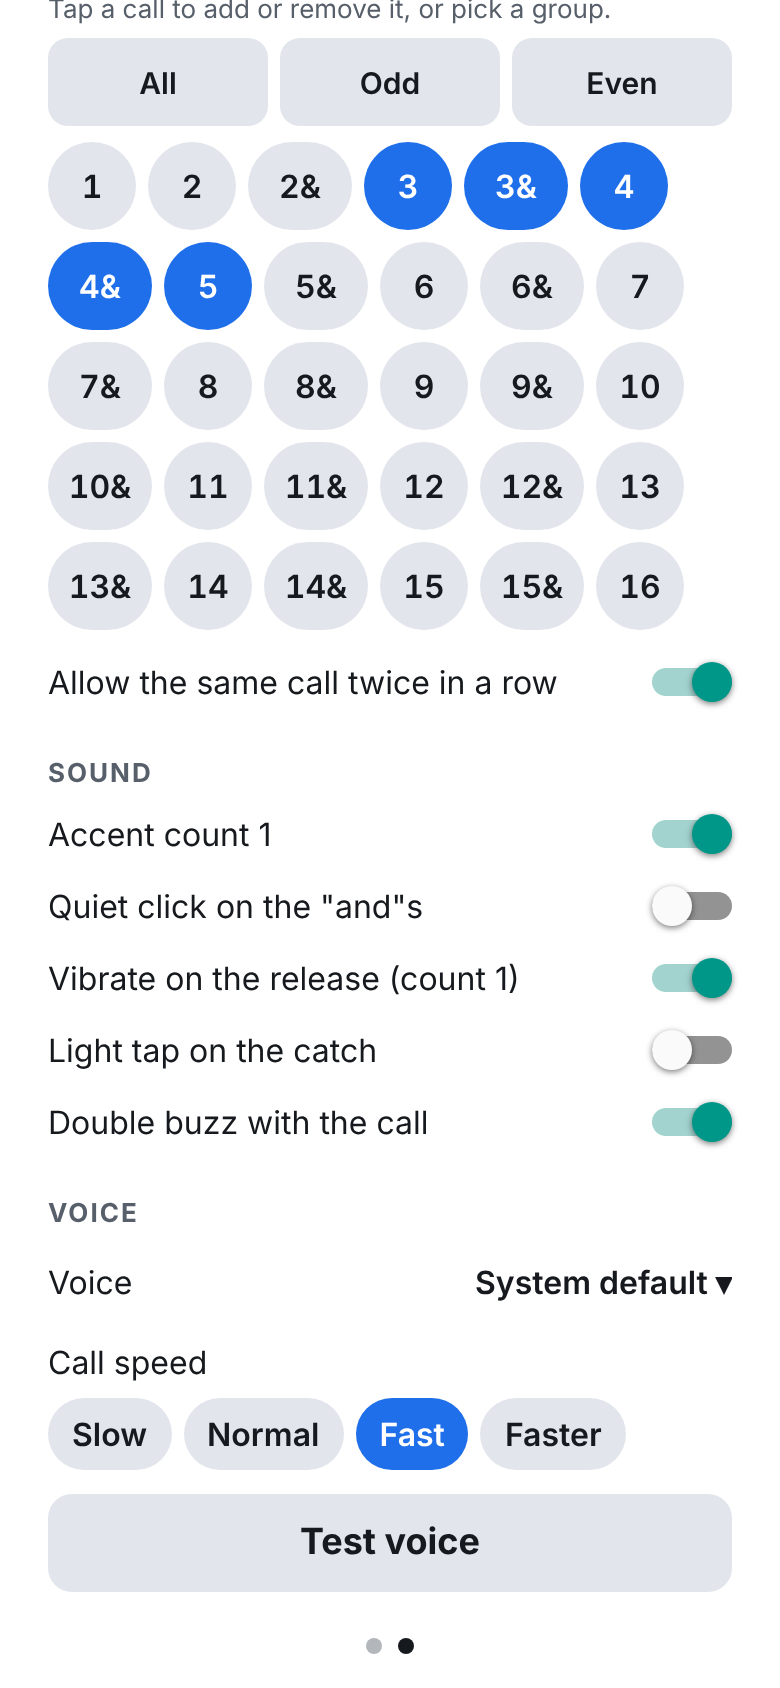
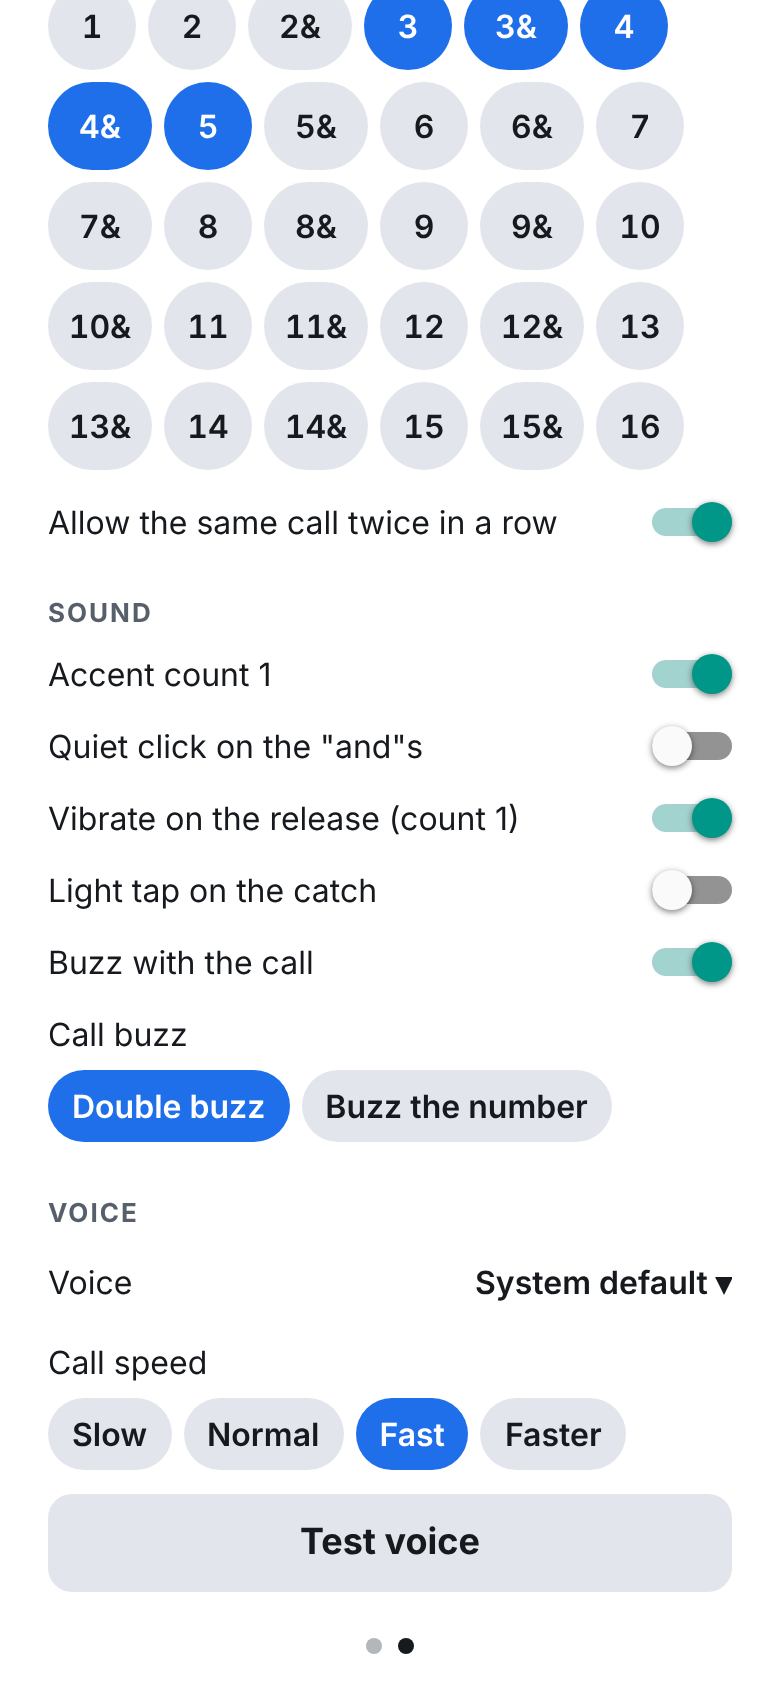
feat(ui): choose Double buzz or Buzz the number for the call buzz
Settings → Sound: "Buzz with the call" now shows two chips when on, with a
note that explains the taps or names the calls that fall back to the double
buzz at this tempo and lead (callBuzzNote). Smoke test checks the style is
saved and the chips hide with the switch; new screenshot 25-buzz-the-number.

Claude-Session: https://claude.ai/code/session_01UV53BDj7yNX1BCkrTVFhEo

Changed region(s): [[0.0615, 0.0, 0.9538, 0.6777], [0.6462, 0.5545, 0.6769, 0.5853]]

diff --git a/src/engine/__tests__/callBuzz.test.ts b/src/engine/__tests__/callBuzz.test.ts
@@ -1,4 +1,6 @@
 import {
+  DEFAULT_TOSS_SETTINGS,
+  callBuzzNote,
   MAX_COUNT_PULSES,
   PULSE_GAP_MAX_MS,
   PULSE_GAP_MIN_MS,
@@ -78,5 +80,58 @@ describe('call buzz style', () => {
     expect(isCallBuzzStyle('numbers')).toBe(false);
     expect(callBuzzStyleLabel('double')).toBe('Double buzz');
     expect(callBuzzStyleLabel('count')).toBe('Buzz the number');
+  });
+});
+
+describe('callBuzzNote', () => {
+  const quads = { ...DEFAULT_TOSS_SETTINGS, leadCounts: 4, allowedTossCounts: [3, 3.5, 4, 4.5, 5] };
+
+  it('says nothing for the double buzz', () => {
+    expect(callBuzzNote('double', quads, 155)).toBeNull();
+  });
+
+  it('explains the taps when every call fits', () => {
+    expect(callBuzzNote('count', quads, 155)).toBe(
+      'A 5 is five taps; an "and" call adds a lighter tap after a pause.',
+    );
+    expect(callBuzzNote('count', { ...quads, allowedTossCounts: [3, 4, 5] }, 155)).toBe(
+      'A 5 is five taps.',
+    );
+  });
+
+  it('names the calls that fall back to the double buzz', () => {
+    const tight = { ...DEFAULT_TOSS_SETTINGS, leadCounts: 1, allowedTossCounts: [1, 2, 3, 5] };
+    expect(callBuzzNote('count', tight, 155)).toBe(
+      "Calls 3 and 5 don't fit as taps before the release at 155 BPM, so they get the double buzz.",
+    );
+    expect(callBuzzNote('count', { ...tight, allowedTossCounts: [2, 3] }, 155)).toBe(
+      "Call 3 doesn't fit as taps before the release at 155 BPM, so it gets the double buzz.",
+    );
+  });
+
+  it('sums up calls too long to tap out at any tempo', () => {
+    const full = { ...DEFAULT_TOSS_SETTINGS, leadCounts: 4, allowedTossCounts: [3, 5, 9, 12] };
+    expect(callBuzzNote('count', full, 120)).toBe(
+      'A 5 is five taps. Calls over 8 counts get the double buzz (too many taps to count).',
+    );
+    const tight = { ...full, leadCounts: 1, allowedTossCounts: [2, 3, 9] };
+    expect(callBuzzNote('count', tight, 155)).toBe(
+      "Call 3 doesn't fit as taps before the release at 155 BPM, so it gets the double buzz. Calls over 8 counts get the double buzz (too many taps to count).",
+    );
+  });
+
+  it('says so when no call fits', () => {
+    const tight = { ...DEFAULT_TOSS_SETTINGS, leadCounts: 1, allowedTossCounts: [4, 5] };
+    expect(callBuzzNote('count', tight, 155)).toMatch(/^No call fits as taps/);
+  });
+
+  it('ignores calls that never fit the phrase', () => {
+    const short = {
+      ...DEFAULT_TOSS_SETTINGS,
+      phraseLength: 8,
+      leadCounts: 4,
+      allowedTossCounts: [3, 9],
+    };
+    expect(callBuzzNote('count', short, 120)).toBe('A 5 is five taps.');
   });
 });

diff --git a/src/components/SettingsPanel.tsx b/src/components/SettingsPanel.tsx
@@ -2,7 +2,10 @@ import { useRef, useState } from 'react';
 import { Pressable, StyleSheet, Text, View } from 'react-native';
 
 import {
+  CALL_BUZZ_STYLES,
   COUNT_IN_OPTIONS,
+  CallBuzzStyle,
+  DEFAULT_CALL_BUZZ_STYLE,
   COUNT_OFF_PATTERNS,
   CountOffPattern,
   CueOptions,
@@ -16,6 +19,8 @@ import {
   VoiceInfo,
   addTap,
   announceCountInPhrase,
+  callBuzzNote,
+  callBuzzStyleLabel,
   callSetNote,
   countInLabel,
   countOffPatternLabel,
@@ -149,6 +154,8 @@ export function SettingsPanel({
   const countInUsed = effectiveCountIn(countIn, settings);
   const countOffPattern = cueOptions.countOffPattern ?? DEFAULT_COUNT_OFF_PATTERN;
   const countOff = countOffSummary(countIn, settings, countOffPattern);
+  const callBuzzStyle = cueOptions.callHapticStyle ?? DEFAULT_CALL_BUZZ_STYLE;
+  const buzzNote = callBuzzNote(callBuzzStyle, settings, bpm);
 
   return (
     <View style={styles.panel}>
@@ -269,10 +276,28 @@ export function SettingsPanel({
         onChange={(catchHaptics) => onCueOptionsChange({ ...cueOptions, catchHaptics })}
       />
       <Toggle
-        label="Double buzz with the call"
+        label="Buzz with the call"
         value={cueOptions.callHaptics ?? false}
         onChange={(callHaptics) => onCueOptionsChange({ ...cueOptions, callHaptics })}
       />
+      {cueOptions.callHaptics ? (
+        <>
+          <Segmented<CallBuzzStyle>
+            label="Call buzz"
+            options={CALL_BUZZ_STYLES}
+            value={callBuzzStyle}
+            onChange={(callHapticStyle) => onCueOptionsChange({ ...cueOptions, callHapticStyle })}
+            optionLabel={callBuzzStyleLabel}
+            optionAccessibilityLabel={callBuzzStyleAccessibilityLabel}
+            testID="call-buzz-style"
+          />
+          {buzzNote ? (
+            <Text style={styles.note} testID="call-buzz-note">
+              {buzzNote}
+            </Text>
+          ) : null}
+        </>
+      ) : null}
 
       <Text style={styles.heading} accessibilityRole="header">
         Voice
@@ -360,4 +385,10 @@ function countOffPatternAccessibilityLabel(pattern: CountOffPattern): string {
     case 'quick':
       return 'Quick count: 5 6 7 8';
   }
+}
+
+function callBuzzStyleAccessibilityLabel(style: CallBuzzStyle): string {
+  return style === 'double'
+    ? 'Double buzz: a call was made, look at the screen'
+    : 'Buzz the number: one tap per count of the call';
 }

diff --git a/src/engine/callBuzz.ts b/src/engine/callBuzz.ts
@@ -14,7 +14,9 @@
  * a long call) that call falls back to the double buzz.
  */
 
-import { assertValidCall, isAndCall } from './calls';
+import { TossSettings, tossCountsThatFit } from './announce';
+import { assertValidCall, callLabel, isAndCall } from './calls';
+import { normalizeTossCounts } from './random';
 import { msPerCount } from './timing';
 
 export type CallBuzzStyle = 'double' | 'count';
@@ -84,4 +86,49 @@ export function callsTooLongToBuzz(
 /** Label for the style chips in Settings. */
 export function callBuzzStyleLabel(style: CallBuzzStyle): string {
   return style === 'double' ? 'Double buzz' : 'Buzz the number';
+}
+
+/**
+ * The note under the style chips: how to read the pulses, or which calls
+ * fall back to the double buzz at this tempo and lead. Null for "double".
+ */
+export function callBuzzNote(
+  style: CallBuzzStyle,
+  settings: TossSettings,
+  bpm: number,
+): string | null {
+  if (style !== 'count') return null;
+  const calls = tossCountsThatFit(
+    normalizeTossCounts(settings.allowedTossCounts),
+    settings.phraseLength,
+  );
+  const tooLong = callsTooLongToBuzz(calls, bpm, settings.leadCounts);
+  if (tooLong.length === calls.length) {
+    return `No call fits as taps before the release at ${bpm} BPM, so every call gets the double buzz. Use more lead counts or a slower tempo.`;
+  }
+  const overMax = tooLong.filter((c) => Math.floor(c) > MAX_COUNT_PULSES);
+  const tight = tooLong.filter((c) => !overMax.includes(c));
+  const sentences: string[] = [];
+  if (tight.length === 0) {
+    sentences.push(
+      calls.some((c) => isAndCall(c))
+        ? 'A 5 is five taps; an "and" call adds a lighter tap after a pause.'
+        : 'A 5 is five taps.',
+    );
+  } else {
+    const labels = tight.map(callLabel);
+    const one = labels.length === 1;
+    const list = one
+      ? labels[0]
+      : `${labels.slice(0, -1).join(', ')} and ${labels[labels.length - 1]}`;
+    sentences.push(
+      `${one ? 'Call' : 'Calls'} ${list} ${one ? "doesn't" : "don't"} fit as taps before the release at ${bpm} BPM, so ${one ? 'it gets' : 'they get'} the double buzz.`,
+    );
+  }
+  if (overMax.length > 0) {
+    sentences.push(
+      `Calls over ${MAX_COUNT_PULSES} counts get the double buzz (too many taps to count).`,
+    );
+  }
+  return sentences.join(' ');
 }

diff --git a/e2e/smoke.js b/e2e/smoke.js
@@ -338,8 +338,8 @@ async function main() {
       (await page.getByTestId('count-off-pattern').count()) === 0,
     );
 
-    // 5c3. Call buzz: the switch is saved with the other sound options.
-    const callBuzz = page.getByRole('switch', { name: 'Double buzz with the call' });
+    // 5c3. Call buzz: the switch and its style are saved with the other sound options.
+    const callBuzz = page.getByRole('switch', { name: 'Buzz with the call' });
     await callBuzz.click();
     const savedBuzz = await page
       .waitForFunction(
@@ -351,7 +351,34 @@ async function main() {
       .then(() => true)
       .catch(() => false);
     check('the call buzz switch is saved', savedBuzz);
+    await page.getByRole('radio', { name: /^Buzz the number/ }).click();
+    const savedStyle = await page
+      .waitForFunction(
+        () =>
+          JSON.parse(localStorage.getItem('guardrr.settings') ?? '{}').cue?.callHapticStyle ===
+          'count',
+        null,
+        { timeout: 3000 },
+      )
+      .then(() => true)
+      .catch(() => false);
+    check('"Buzz the number" is saved', savedStyle);
+    const buzzNote = (await page.getByTestId('call-buzz-note').textContent()) ?? '';
+    check(
+      '"Buzz the number" says which calls are too long to tap out',
+      /over 8 counts get the double buzz/.test(buzzNote),
+      buzzNote,
+    );
+    await page.getByRole('radio', { name: /^Double buzz/ }).click();
+    check(
+      'the double buzz needs no note',
+      (await page.getByTestId('call-buzz-note').count()) === 0,
+    );
     await callBuzz.click();
+    check(
+      'the call buzz chips hide when the buzz is off',
+      (await page.getByTestId('call-buzz-style').count()) === 0,
+    );
 
     // 5c4. Appearance: Dark overrides the (light) browser, survives a reload,
     // and System follows the browser again.

diff --git a/scripts/screenshots.js b/scripts/screenshots.js
@@ -220,12 +220,16 @@ async function main() {
     await shot(page, '20-count-off-straight');
     await page.getByRole('radio', { name: 'Prep count: 5 6, 5 6 7 8' }).click();
 
-    // Settings → Sound: the optional double buzz with the call.
-    await page.getByRole('switch', { name: 'Double buzz with the call' }).click();
+    // Settings → Sound: the optional call buzz, then "Buzz the number".
+    await page.getByRole('switch', { name: 'Buzz with the call' }).click();
     await scrollTo(page.getByRole('switch', { name: 'Accent count 1' }));
     await page.waitForTimeout(200);
     await shot(page, '23-call-buzz');
-    await page.getByRole('switch', { name: 'Double buzz with the call' }).click();
+    await page.getByRole('radio', { name: /^Buzz the number/ }).click();
+    await page.waitForTimeout(200);
+    await shot(page, '25-buzz-the-number');
+    await page.getByRole('radio', { name: /^Double buzz/ }).click();
+    await page.getByRole('switch', { name: 'Buzz with the call' }).click();
 
     // Settings → Calls.
     await page.getByTestId('call-shortcut-odd').click();
